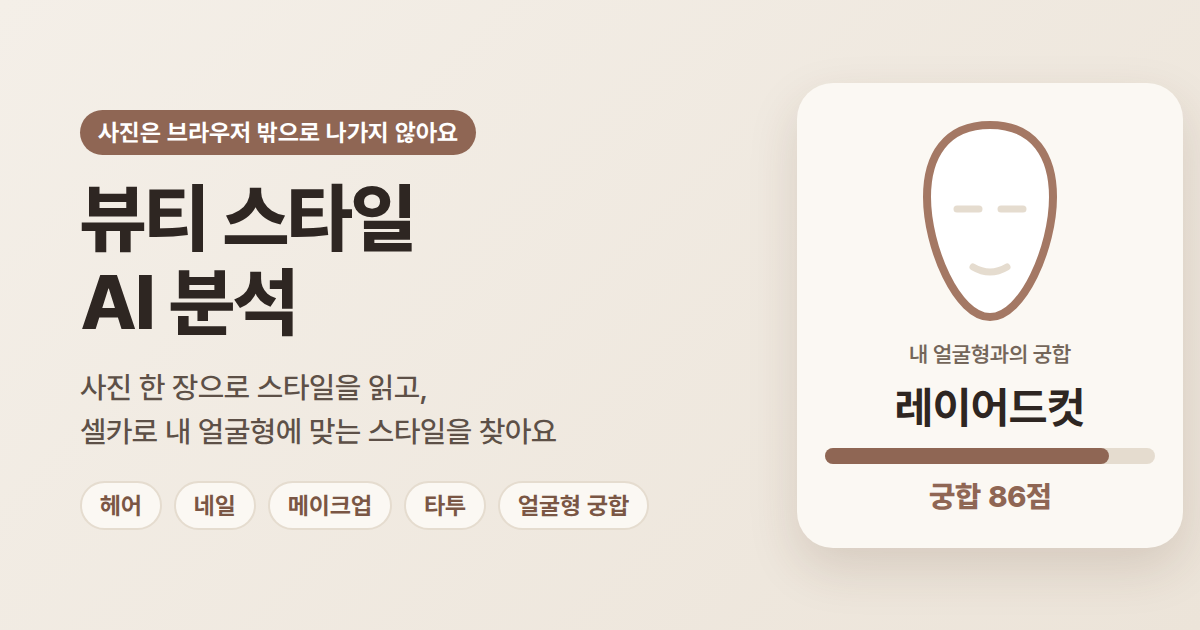
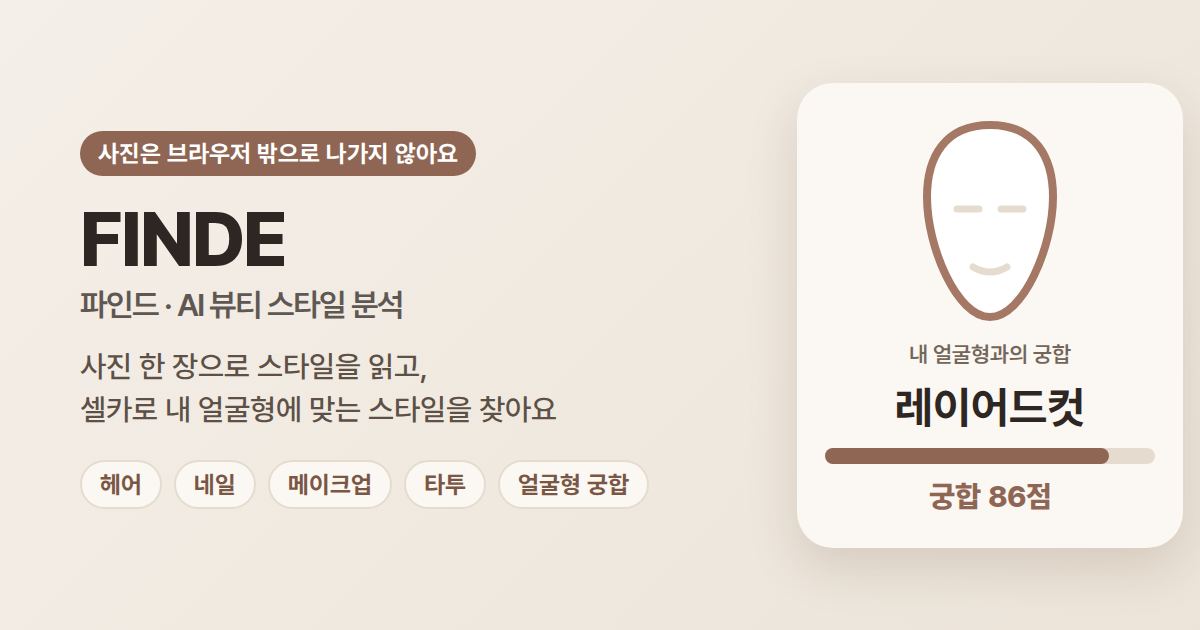
앱 이름을 FINDE(파인드)로 (#48)
- 화면 제목 · 머리말 · 공유 미리보기(og) · 공유 카드 · 요청서 이미지 · 복사 문구 · 검수 도구 · 안내 페이지 · 문서 · 약관 초안
- 사이트 주소(Hugging Face Space 이름)는 그대로

Claude-Session: https://claude.ai/code/session_01XARMjX5bykpa3wQR5XZuyC

diff --git a/app.js b/app.js
@@ -717,7 +717,7 @@ async function orderImage(o, photo, face = null) {
       return lines.length * size * lh;
     };
     y += text(face ? `미용실 상담 카드 · ${o.title.replace('시술 요청서 · ', '')}` : o.title, 46, 700, C.text, P, INNER) + 4;
-    y += text(`뷰티 스타일 AI 분석 · ${date} · ${o.to}에게 보여 주세요`, 24, 400, C.muted, P, INNER) + 28;
+    y += text(`FINDE · ${date} · ${o.to}에게 보여 주세요`, 24, 400, C.muted, P, INNER) + 28;
     if (paint) {
       ctx.save(); ctx.beginPath(); ctx.roundRect(P + (INNER - iw) / 2, y, iw, ih, 16); ctx.clip();
       ctx.drawImage(bmp, P + (INNER - iw) / 2, y, iw, ih); ctx.restore();
@@ -913,7 +913,7 @@ els.fbClear.addEventListener('click', () => {
 // JSON 출력용: 화면 전용 필드 정리
 function slim(r) {
   return {
-    ai_generated: true, generator: '뷰티 스타일 AI 분석', generative_model: r.vlm_model,
+    ai_generated: true, generator: 'FINDE', generative_model: r.vlm_model,
     category: r.category, category_label: r.category_label, category_ranking: r.category_ranking.map((c) => ({ key: c.key, score: round(c.score) })),
     genre: r.genre, headline: r.headline, description_ko: r.description_ko, description_vlm: r.description_vlm, description_vlm_en: r.description_vlm_en,
     attributes: r.attributes.map((a) => ({ group: a.group, group_label: a.group_label, label: a.label, label_en: a.label_en, score: round(a.score), level: a.level, ...(a.region ? { region: a.region } : {}),
@@ -943,7 +943,7 @@ $('shareStyle').addEventListener('click', async (e) => {
     if (how === 'downloaded') toast('공유 이미지를 저장했어요');
   } catch (err) { console.error(err); toast('공유 이미지를 만들지 못했어요'); } finally { b.disabled = false; }
 });
-els.copyText.addEventListener('click', () => copy(lastResult ? `${lastResult.headline}\n${lastResult.description_ko}\n${lastResult.quip ? `에디터 한마디: ${lastResult.quip}\n` : ''}${lastResult.tags.map((t) => '#' + t).join(' ')}${lastResult.description_vlm ? `\n\n[자유 서술]\n${lastResult.description_vlm}\n\n[원문]\n${lastResult.description_vlm_en}` : ''}\n\n(AI 생성 · 뷰티 스타일 AI 분석 결과라 틀릴 수 있어요)` : ''));
+els.copyText.addEventListener('click', () => copy(lastResult ? `${lastResult.headline}\n${lastResult.description_ko}\n${lastResult.quip ? `에디터 한마디: ${lastResult.quip}\n` : ''}${lastResult.tags.map((t) => '#' + t).join(' ')}${lastResult.description_vlm ? `\n\n[자유 서술]\n${lastResult.description_vlm}\n\n[원문]\n${lastResult.description_vlm_en}` : ''}\n\n(AI 생성 · FINDE 결과라 틀릴 수 있어요)` : ''));
 els.copyJson.addEventListener('click', () => copy(els.json.textContent));
 async function copy(text) {
   try { await navigator.clipboard.writeText(text); toast('복사했어요'); } catch { toast('복사하지 못했어요'); }

diff --git a/index.html b/index.html
@@ -3,20 +3,20 @@
 <head>
   <meta charset="utf-8" />
   <meta name="viewport" content="width=device-width, initial-scale=1" />
-  <title>뷰티 스타일 AI 분석</title>
+  <title>FINDE · 파인드 — AI 뷰티 스타일 분석</title>
   <meta name="description" content="헤어·네일·메이크업·타투 사진을 올리면 브라우저 안에서 AI가 스타일을 자세한 한국어 문장으로 설명합니다." />
   <meta name="theme-color" content="#f4efe8" />
   <link rel="icon" type="image/svg+xml" href="./favicon.svg" />
   <link rel="apple-touch-icon" href="./apple-touch-icon.png" />
   <meta property="og:type" content="website" />
-  <meta property="og:site_name" content="뷰티 스타일 AI 분석" />
-  <meta property="og:title" content="뷰티 스타일 AI 분석 — 내 얼굴형에 맞는 스타일 찾기" />
+  <meta property="og:site_name" content="FINDE · 파인드" />
+  <meta property="og:title" content="FINDE · 파인드 — 내 얼굴형에 맞는 스타일 찾기" />
   <meta property="og:description" content="헤어 · 네일 · 메이크업 · 타투 사진을 올리면 AI가 스타일을 읽어 주고, 셀카 한 장으로 내 얼굴형과 잘 어울리는 스타일을 찾아 드려요. 사진은 브라우저 밖으로 나가지 않아요." />
   <meta property="og:url" content="https://kyoungminoh-beauty-style-ai.static.hf.space/" />
   <meta property="og:image" content="https://kyoungminoh-beauty-style-ai.static.hf.space/og.png" />
   <meta property="og:image:width" content="1200" />
   <meta property="og:image:height" content="630" />
-  <meta property="og:image:alt" content="뷰티 스타일 AI 분석 — 얼굴형 궁합 카드 그림" />
+  <meta property="og:image:alt" content="FINDE — 얼굴형 궁합 카드 그림" />
   <meta property="og:locale" content="ko_KR" />
   <meta name="twitter:card" content="summary_large_image" />
   <link rel="stylesheet" crossorigin="anonymous" href="https://cdn.jsdelivr.net/gh/orioncactus/pretendard@v1.3.9/dist/web/variable/pretendardvariable-dynamic-subset.min.css" />
@@ -29,7 +29,7 @@
   <div class="wrap">
     <header class="top">
       <div class="brand">
-        <h1>뷰티 스타일 AI 분석</h1>
+        <h1>FINDE <small class="brand-ko">파인드</small></h1>
         <p>헤어 · 네일 · 메이크업 · 타투 사진을 올리면 스타일을 문장으로 설명하고, 셀카로 내 얼굴형에 맞는 헤어 · 메이크업을 추천합니다. 사진은 이 브라우저 밖으로 보내지 않습니다.</p>
       </div>
       <div class="status" id="status">

diff --git a/notice.html b/notice.html
@@ -3,7 +3,7 @@
 <head>
   <meta charset="utf-8" />
   <meta name="viewport" content="width=device-width, initial-scale=1" />
-  <title>AI 이용 안내 · 뷰티 스타일 AI 분석</title>
+  <title>AI 이용 안내 · FINDE</title>
   <meta name="theme-color" content="#f4efe8" />
   <link rel="stylesheet" crossorigin="anonymous" href="https://cdn.jsdelivr.net/gh/orioncactus/pretendard@v1.3.9/dist/web/variable/pretendardvariable-dynamic-subset.min.css" />
   <link rel="stylesheet" href="./style.css" />
@@ -20,10 +20,10 @@
 </head>
 <body>
   <div class="wrap doc">
-    <header class="top"><div class="brand"><h1>AI 이용 안내</h1><p><a href="./">뷰티 스타일 AI 분석으로 돌아가기</a></p></div></header>
+    <header class="top"><div class="brand"><h1>AI 이용 안내</h1><p><a href="./">FINDE로 돌아가기</a></p></div></header>
     <section class="card">
       <h2>이 서비스는 AI 를 사용합니다</h2>
-      <p>뷰티 스타일 AI 분석은 인공지능(AI)이 사진을 보고 헤어, 네일, 메이크업, 타투 스타일을 설명하는 서비스입니다. 화면에 나오는 설명, 장르, 트렌드 키워드, 해시태그, 시술 요청서, 용어 설명 아래의 판단은 모두 AI 가 만든 결과입니다. 고급 모드의 "자유 서술"은 생성형 AI 가 새로 쓴 글입니다.</p>
+      <p>FINDE(파인드)는 인공지능(AI)이 사진을 보고 헤어, 네일, 메이크업, 타투 스타일을 설명하는 서비스입니다. 화면에 나오는 설명, 장르, 트렌드 키워드, 해시태그, 시술 요청서, 용어 설명 아래의 판단은 모두 AI 가 만든 결과입니다. 고급 모드의 "자유 서술"은 생성형 AI 가 새로 쓴 글입니다.</p>
 
       <h2>어떤 모델을 쓰나요</h2>
       <table>

diff --git a/review.html b/review.html
@@ -3,7 +3,7 @@
 <head>
   <meta charset="utf-8" />
   <meta name="viewport" content="width=device-width, initial-scale=1" />
-  <title>전문가 검수 도구 · 뷰티 스타일 AI 분석</title>
+  <title>전문가 검수 도구 · FINDE</title>
   <meta name="robots" content="noindex" />
   <meta name="theme-color" content="#f4efe8" />
   <link rel="stylesheet" crossorigin="anonymous" href="https://cdn.jsdelivr.net/gh/orioncactus/pretendard@v1.3.9/dist/web/variable/pretendardvariable-dynamic-subset.min.css" />
@@ -96,7 +96,7 @@
         <p class="rv-help">학습용 JSONL 은 <code>python3 tools/train-heads.py ... --feedback 파일.jsonl</code> 로 바로 다시 학습할 수 있어요. 요약 CSV 는 성능 보고서(docs/MODEL_CARD.md)에 붙일 수 있어요.</p>
       </section>
     </div>
-    <footer><a href="./">뷰티 스타일 AI 분석으로 돌아가기</a></footer>
+    <footer><a href="./">FINDE로 돌아가기</a></footer>
   </div>
   <script type="module" src="./review.js"></script>
 </body>

diff --git a/fit-review.html b/fit-review.html
@@ -3,7 +3,7 @@
 <head>
   <meta charset="utf-8" />
   <meta name="viewport" content="width=device-width, initial-scale=1" />
-  <title>얼굴형 · 추천 검수 · 뷰티 스타일 AI 분석</title>
+  <title>얼굴형 · 추천 검수 · FINDE</title>
   <meta name="robots" content="noindex" />
   <meta name="theme-color" content="#f4efe8" />
   <link rel="icon" type="image/svg+xml" href="./favicon.svg" />
@@ -78,7 +78,7 @@
         <div id="voteStats"></div>
       </section>
     </div>
-    <footer><a href="./">뷰티 스타일 AI 분석으로 돌아가기</a> · <a href="./review.html">스타일 검수 도구</a></footer>
+    <footer><a href="./">FINDE로 돌아가기</a> · <a href="./review.html">스타일 검수 도구</a></footer>
   </div>
   <script type="module" src="./fit-review.js"></script>
 </body>

diff --git a/style.css b/style.css
@@ -1,4 +1,4 @@
-/* 뷰티 스타일 AI 분석 — 차분한 베이지 + 모카무스(PANTONE 17-1230, #A47864). 장식 효과 없이 평면으로 */
+/* FINDE — 차분한 베이지 + 모카무스(PANTONE 17-1230, #A47864). 장식 효과 없이 평면으로 */
 :root {
   --bg: #f4efe8;
   --bg-2: #ece4d9;
@@ -614,3 +614,6 @@ button:focus-visible, a:focus-visible, summary:focus-visible, [role="tab"]:focus
 
 /* 휴대폰: 안내 문구가 떠 있는 '다른 사진 고르기' 버튼을 가리지 않게 위로 */
 @media (max-width: 899px) { .toast { bottom: calc(76px + env(safe-area-inset-bottom, 0px)); margin-bottom: 0; } }
+
+/* 앱 이름 옆 한글 읽기 */
+.brand h1 .brand-ko { font-size: .5em; font-weight: 600; color: var(--muted); margin-left: 6px; letter-spacing: 0; vertical-align: middle; }

diff --git a/face-ui.js b/face-ui.js
@@ -828,7 +828,7 @@ export function initFaceUI({ getStyle, analyzeStyle = null, openSample = null, t
     }
     if (report.match?.score != null) lines.push('', `분석한 스타일과의 궁합: ${report.match.title} — ${report.match.verdict} (궁합 ${report.match.score}점)`, ...report.match.reasons.map((x) => `  ${x.pts > 0 ? '✓' : '△'} ${x.text}`), ...(report.match.tip ? [`  ${report.match.tip}`] : []));
     if (report.rank?.length) lines.push('', `원하는 ${purpose === 'hair' ? '헤어' : '메이크업'} 베스트 순위`, ...report.rank);
-    lines.push('', '(AI 생성 · 뷰티 스타일 AI 분석 · 사진 한 장으로 잰 참고용 결과예요)');
+    lines.push('', '(AI 생성 · FINDE · 사진 한 장으로 잰 참고용 결과예요)');
     copy(lines.join('\n'));
   });
 

diff --git a/share-card.js b/share-card.js
@@ -74,7 +74,7 @@ function scoreBar(ctx, x, y, w, score) {
 }
 function footer(ctx) {
   ctx.fillStyle = C.muted; font(ctx, 30, 600); ctx.textAlign = 'center';
-  ctx.fillText('뷰티 스타일 AI 분석', W / 2, H - 112);
+  ctx.fillText('FINDE', W / 2, H - 112);
   font(ctx, 26, 500); ctx.fillText(`${SITE} · AI 분석 결과라 참고용이에요`, W / 2, H - 68);
   ctx.textAlign = 'left';
 }

diff --git a/docs/legal/ai-notice.md b/docs/legal/ai-notice.md
@@ -1,4 +1,4 @@
-# 뷰티 스타일 AI 분석 AI 이용 고지 · 투명성 안내
+# FINDE AI 이용 고지 · 투명성 안내
 
 > **초안 — 법률 전문가 검토 전에는 그대로 게시하지 마세요**
 >
@@ -126,7 +126,7 @@
 
 ### 이 서비스는 AI를 사용합니다
 
-뷰티 스타일 AI 분석은 인공지능(AI)이 사진을 보고 헤어, 네일, 메이크업, 타투 스타일을 설명하는 서비스입니다. 화면에 나오는 설명, 장르, 트렌드 키워드, 해시태그, 시술 요청서는 모두 AI의 판단으로 만든 것입니다. 고급 모드의 "자유 서술"은 생성형 AI가 새로 쓴 글입니다.
+FINDE(파인드)는 인공지능(AI)이 사진을 보고 헤어, 네일, 메이크업, 타투 스타일을 설명하는 서비스입니다. 화면에 나오는 설명, 장르, 트렌드 키워드, 해시태그, 시술 요청서는 모두 AI의 판단으로 만든 것입니다. 고급 모드의 "자유 서술"은 생성형 AI가 새로 쓴 글입니다.
 
 ### 어떤 모델을 쓰나요
 
@@ -212,11 +212,11 @@
 | 위치 | 문구 |
 |---|---|
 | 결과 옆 배지 | AI 생성 |
-| "설명 복사" 첫 줄 | [AI 생성] '뷰티 스타일 AI 분석'이 사진을 보고 만든 설명이에요. 틀릴 수 있어요. |
+| "설명 복사" 첫 줄 | [AI 생성] 'FINDE'가 사진을 보고 만든 설명이에요. 틀릴 수 있어요. |
 | 시술 요청서 끝 줄 (복사·이미지 저장 공통) | 사진을 AI 로 분석한 참고용 요약입니다. 실제 시술은 상담 후 정해 주세요. (작업 중인 코드의 문구. 그대로 써도 됨) |
 | 자유 서술 제목 옆 | 생성형 AI(LFM2.5-VL-450M)가 쓴 글 · 사실과 다를 수 있어요 |
 | 복사 직후 안내(1회) | AI가 만든 내용을 복사했어요. 공유할 때 "AI 생성" 표시를 지우지 말아 주세요. |
-| JSON (기계 판독) | `"ai_generated": true`, `"generator": "뷰티 스타일 AI 분석"`, 고급 모드일 때 `"generative_model": "LFM2.5-VL-450M"` |
+| JSON (기계 판독) | `"ai_generated": true`, `"generator": "FINDE"`, 고급 모드일 때 `"generative_model": "LFM2.5-VL-450M"` |
 
 > 이 문서는 문구만 제안합니다. 앱 코드에 반영하는 일은 별도 작업입니다.
 

diff --git a/docs/legal/photo-consent.md b/docs/legal/photo-consent.md
@@ -60,7 +60,7 @@
 
 동의서 번호: [A-0001]
 
-안녕하세요. [운영자 이름]은 사진을 보고 헤어·네일·메이크업·타투 스타일을 설명하는 AI 서비스 "뷰티 스타일 AI 분석"을 만들고 있습니다. 더 정확한 AI를 만들기 위해 고객님의 시술 사진을 쓰고 싶습니다. 아래 내용을 읽고, 동의하는 항목에만 체크해 주세요. **동의하지 않아도 시술이나 매장 이용에 아무런 불이익이 없습니다.**
+안녕하세요. [운영자 이름]은 사진을 보고 헤어·네일·메이크업·타투 스타일을 설명하는 AI 서비스 "FINDE"을 만들고 있습니다. 더 정확한 AI를 만들기 위해 고객님의 시술 사진을 쓰고 싶습니다. 아래 내용을 읽고, 동의하는 항목에만 체크해 주세요. **동의하지 않아도 시술이나 매장 이용에 아무런 불이익이 없습니다.**
 
 ### 1. 사진을 받는 사람
 
@@ -68,7 +68,7 @@
 |---|---|
 | 받는 사람 | [운영자 이름] |
 | 연락처 | [연락처 이메일] |
-| 서비스 | 뷰티 스타일 AI 분석 ([서비스 주소]) |
+| 서비스 | FINDE ([서비스 주소]) |
 | 운영 형태 | [대학 이름] 수업 과제로 운영하는 비영리 서비스. 앞으로 유료 서비스가 될 수 있습니다. |
 
 ### 2. 무엇에 쓰나요 (목적마다 따로 골라 주세요)
@@ -218,7 +218,7 @@
 
 동의서 번호: [B-0001]
 
-[매장 이름](이하 "매장")은 아래 사진을 [운영자 이름](이하 "운영자")이 만드는 AI 서비스 "뷰티 스타일 AI 분석"에 쓰도록 허락합니다.
+[매장 이름](이하 "매장")은 아래 사진을 [운영자 이름](이하 "운영자")이 만드는 AI 서비스 "FINDE"에 쓰도록 허락합니다.
 
 ### 1. 매장 정보
 

diff --git a/docs/SCRIPT_1MIN.md b/docs/SCRIPT_1MIN.md
@@ -1,10 +1,10 @@
-# 1분 발표 대본 — 뷰티 스타일 AI 분석
+# 1분 발표 대본 — FINDE
 
 발표 자료 `presentation.pptx`(13장) 기준. 말하는 속도 기준 약 55~60초. 장 번호는 넘길 때를 표시한다.
 
 | 시간 | 장 | 대본 |
 |---|---|---|
-| 0:00 | 1 표지 | 뷰티 스타일 AI 분석을 발표할 오경민입니다. |
+| 0:00 | 1 표지 | FINDE(파인드)를 발표할 오경민입니다. |
 | 0:03 | 2 문제 | 미용실에서 사진을 보여 줘도, 스타일 이름을 모르면 설명하기 어렵습니다. 그래서 사진 한 장을 한국어로 설명하는 AI를 만들었습니다. |
 | 0:11 | 3 사용한 모델 | 패션 사진에 특화된 FashionSigLIP 모델을 Transformers.js로 브라우저에서 실행해서, 사진이 서버로 나가지 않습니다. |
 | 0:18 | 4 → 5 → 6 | 사진을 넣으면 장르와 설명, 사진 속 색은 물론, 미용실에 보여 줄 시술 요청서와 이 스타일이 어울리는 사람까지 알려 줍니다. |

diff --git a/docs/legal/terms.md b/docs/legal/terms.md
@@ -1,4 +1,4 @@
-# 뷰티 스타일 AI 분석 이용약관
+# FINDE 이용약관
 
 > **초안 — 법률 전문가 검토 전에는 그대로 게시하지 마세요**
 >
@@ -12,7 +12,7 @@
 
 ## 제1조 (목적)
 
-이 약관은 [운영자 이름](이하 "운영자")이 제공하는 "뷰티 스타일 AI 분석"(이하 "서비스")를 이용하는 조건과 절차를 정합니다. 운영자와 이용자의 권리, 의무, 책임도 함께 정합니다.
+이 약관은 [운영자 이름](이하 "운영자")이 제공하는 "FINDE(파인드)"(이하 "서비스")를 이용하는 조건과 절차를 정합니다. 운영자와 이용자의 권리, 의무, 책임도 함께 정합니다.
 
 ## 제2조 (용어의 뜻)
 
